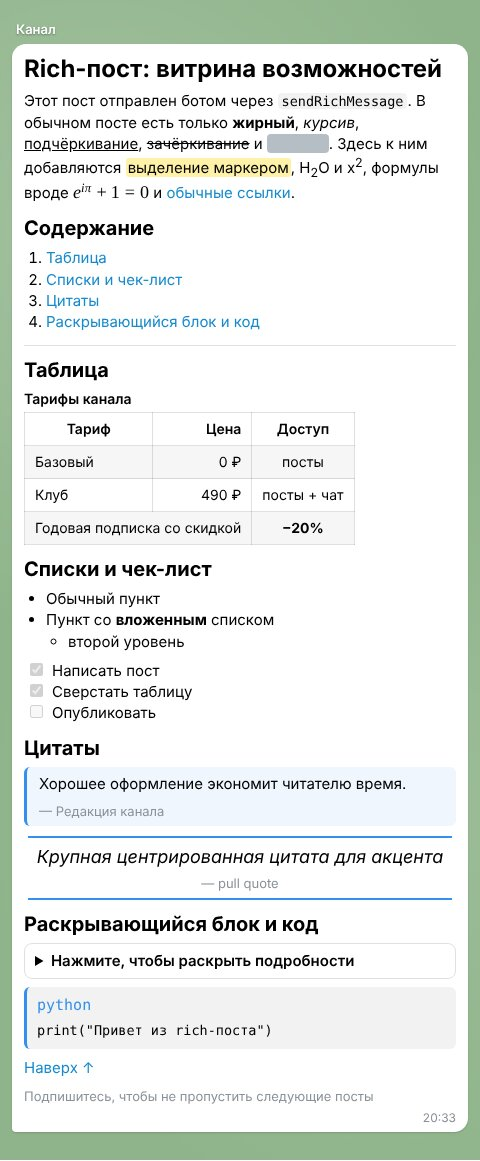
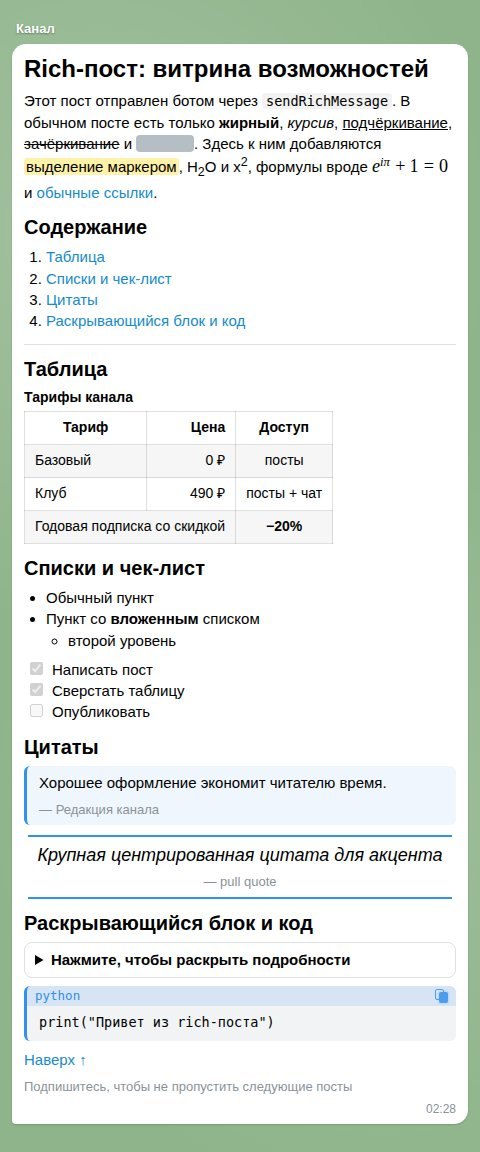
Предпросмотр как в Telegram Desktop: адрес TON, код-блок, GIF из tg://video
Адрес TON, который Telegram сам находит в тексте HTML и Markdown (EQ…/UQ…
из 48 символов), выделен цветом ссылки; в outline он <ton>, так что
test:parity и сверка «Мне в личку» проверяют это правило. Код-блок получил
полосу слева и шапку с языком и значком копирования, без подсветки
синтаксиса (ADR 0022). Вид файла tg:// берётся из записи в media: GIF за
tg://video играет сам по кругу, с меткой «GIF», без кнопок.

Пример post-telegram-check.json повторяет пост сверки; скриншоты берут
файлы upload: из examples/media.

Changed region(s): [[0.0312, 0.3125, 0.9688, 0.9688], [0.0312, 0.0, 0.9375, 0.2812], [0.9062, 0.9375, 0.9375, 0.9688]]

diff --git a/app/static/render.js b/app/static/render.js
@@ -41,7 +41,8 @@
     let node;
     if (!src) {
       node = el('div', { class: 'tg-media-ph' }, el('span', { class: 'tg-media-kind', text: kindLabel(kind) }), el('small', { text: label || 'нет файла' }));
-    } else if (kind === 'photo') {
+    } else if (kind === 'photo' || (kind === 'animation' && /\.gif(?:[?#]|$)/i.test(src))) {
+      // a GIF plays only in <img>; Telegram shows an animation playing by itself in a loop, without controls
       node = el('img', { src, alt: '', loading: 'lazy' });
     } else if (kind === 'video' || kind === 'animation') {
       node = el('video', { src, controls: kind === 'video', autoplay: kind === 'animation', loop: kind === 'animation', playsinline: true });
@@ -52,7 +53,8 @@
     } else {
       node = el('a', { class: 'tg-doc', href: src, target: '_blank', rel: 'noopener' }, el('span', { class: 'tg-doc-ico', text: '📄' }), (() => { const last = src.split('/').pop() || ''; try { return decodeURIComponent(last); } catch (e) { return last; } })());
     }
-    const wrap = el('div', { class: 'tg-media tg-media-' + kind + (spoiler ? ' tg-media-spoiler' : '') }, node);
+    // tg-gif: the «GIF» label over a playing animation (the placeholder names the kind by itself)
+    const wrap = el('div', { class: 'tg-media tg-media-' + kind + (src && kind === 'animation' ? ' tg-gif' : '') + (spoiler ? ' tg-media-spoiler' : '') }, node);
     if (spoiler) wrap.addEventListener('click', () => wrap.classList.remove('tg-media-spoiler'));
     if (extra) wrap.append(extra);
     return wrap;
@@ -128,7 +130,7 @@
     else if (t === 'email_address') frag.append(el('a', { href: 'mailto:' + rt.email_address }, inner()));
     else if (t === 'phone_number') frag.append(el('a', { href: 'tel:' + rt.phone_number }, inner()));
     else if (['mention', 'hashtag', 'cashtag', 'bot_command', 'bank_card_number'].includes(t)) frag.append(el('span', { class: 'tg-link' }, inner()));
-    else if (t === 'ton_address') frag.append(el('span', { class: 'tg-link', title: 'Адрес TON: ' + (rt.address || '') }, inner())); // Bot API 10.4
+    else if (t === 'ton_address') frag.append(tonEl(inner(), rt.address || '')); // Bot API 10.4
     else if (t === 'date_time') frag.append(el('span', { class: 'tg-time', title: formatTime(rt.unix_time, 'wDT') + ' (у читателя: его часовой пояс)' }, rt.text ? inner() : formatTime(rt.unix_time, rt.date_time_format)));
     else if (t === 'custom_emoji') frag.append(el('span', { class: 'tg-emoji', title: 'custom emoji ' + rt.custom_emoji_id }, rt.alternative_text || '⭐'));
     else if (t === 'mathematical_expression') frag.append(math(rt.expression || '', false));
@@ -140,6 +142,9 @@
     else frag.append(unknown('текст: ' + t, rt.text !== undefined ? inner() : JSON.stringify(rt)));
     return frag;
   }
+
+  // a TON address reads as a link; the address itself only in the title
+  const tonEl = (content, address) => el('span', { class: 'tg-link tg-ton', title: 'Адрес TON: ' + address }, content);
 
   function spoilerEl(content) {
     const s = el('span', { class: 'tg-spoiler' }, content);
@@ -172,7 +177,7 @@
     switch (b.type) {
       case 'paragraph': return el('p', {}, rt(b.text));
       case 'heading': return el('h' + Math.min(6, Math.max(1, b.size || 1)), {}, rt(b.text));
-      case 'pre': return el('pre', { 'data-lang': b.language || null }, el('code', {}, rt(b.text)));
+      case 'pre': return codeBox(el('pre', { 'data-lang': b.language || null }, el('code', {}, rt(b.text))), b.language);
       case 'footer': return el('footer', {}, rt(b.text));
       case 'divider': return el('hr');
       case 'mathematical_expression': return math(b.expression || '', true);
@@ -208,6 +213,28 @@
         return el('div', { class: 'tg-unknown tg-unknown-block', title: 'Блок, которого нет в рендере предпросмотра. Telegram его получит.' },
           el('b', { text: 'Блок «' + b.type + '»' }), el('pre', { text: JSON.stringify(b, null, 1) }));
     }
+  }
+
+  // A code block as Telegram Desktop draws it: a header with the language and a copy icon, a bar on the left. CSS
+  // writes the language from data-lang, so the post's text (outline, history, reply dialog) stays only the code.
+  // No syntax highlighting: docs/decisions/0022-code-block-without-highlighting.md
+  function codeBox(pre, lang) {
+    const copy = el('span', { class: 'tg-pre-copy', role: 'button', tabindex: 0, title: 'Копировать', 'aria-label': 'Копировать код' });
+    const head = el('div', { class: 'tg-pre-head', 'data-lang': lang || null }, copy);
+    const copyCode = () => {
+      const done = () => { head.classList.add('tg-copied'); setTimeout(() => head.classList.remove('tg-copied'), 1500); };
+      try { navigator.clipboard.writeText(codeText(pre)).then(done, () => {}); } catch (e) { /* no clipboard here (an MCP host's sandbox) */ }
+    };
+    copy.addEventListener('click', copyCode);
+    copy.addEventListener('keydown', (ev) => { if (ev.key === 'Enter' || ev.key === ' ') { ev.preventDefault(); copyCode(); } });
+    return el('div', { class: 'tg-pre' }, head, pre);
+  }
+
+  // the code as the reader copies it: from blocks its line breaks are <br>
+  function codeText(node) {
+    let s = '';
+    node.childNodes.forEach((c) => { s += c.nodeType === 3 ? c.nodeValue : c.nodeName === 'BR' ? '\n' : codeText(c); });
+    return s;
   }
 
   function expandable(content, cite) {
@@ -374,11 +401,16 @@
     });
   }
 
+  // what kind the file is, its entry in media says, not the link: the docs give only tg://photo, video, audio and
+  // document, so a GIF (InputMediaAnimation) comes as tg://video and a voice note (InputMediaVoiceNote) as tg://audio
+  const MEDIA_KINDS = new Set(['photo', 'video', 'animation', 'audio', 'document', 'voice_note']);
   function mediaFromSrc(src, ctx) {
     const m = /^tg:\/\/(photo|video|audio|document|animation|voice(?:_note)?)\?id=([\w\-.]+)/.exec(src || '');
     if (!m) return null;
     const item = (ctx.mediaList || []).find((x) => x && x.id === m[2]);
-    return { kind: m[1] === 'voice' ? 'voice_note' : m[1], media: item ? item.media : null, id: m[2] };
+    const media = item ? item.media : null;
+    const type = media && typeof media === 'object' ? media.type : null;
+    return { kind: MEDIA_KINDS.has(type) ? type : m[1] === 'voice' ? 'voice_note' : m[1], media, id: m[2] };
   }
 
   function transformHtml(root, ctx) {
@@ -449,6 +481,9 @@
         const lang = node.querySelector('code[class*="language-"]');
         const m = lang && /language-([\w+#-]+)/.exec(lang.className);
         if (m) node.dataset.lang = m[1];
+        const parent = node.parentNode, next = node.nextSibling;
+        parent.insertBefore(codeBox(node, m && m[1]), next); // codeBox takes the <pre> out to put it under its header
+        return;
       } else if (tag.startsWith('tg-')) {
         rep = unknown('тег <' + tag + '>', kids());
       }
@@ -510,12 +545,34 @@
     return n > 0 && n <= 0x10ffff && !(n >= 0xd800 && n <= 0xdfff) ? String.fromCodePoint(n) : m[0];
   }
 
+  // A TON address Telegram finds in HTML and Markdown text by itself, unless skip_entity_detection is on
+  // (tests/telegram_parse/captured.json: html-detected-card-ton): EQ…/UQ… of 48 characters, as TON_FOUND in
+  // js/html-export.js. A card number with spaces it does not find, and the preview finds no card numbers at all.
+  // Not inside code, links, formulas and other elements that already are something else.
+  const TON = /(?<![\w-])[EU]Q[\w-]{46}(?![\w-])/g;
+  const NO_DETECTION = 'a, code, pre, .tg-link, .tg-math, .tg-math-block, .tg-time, .tg-emoji, .tg-btn, .tg-media, .tg-unknown-block';
+  function findTon(root) {
+    /** @type {Text[]} */
+    const texts = [];
+    const walker = document.createTreeWalker(root, NodeFilter.SHOW_TEXT);
+    for (let n = walker.nextNode(); n; n = walker.nextNode()) if (!n.parentElement?.closest(NO_DETECTION)) texts.push(/** @type {Text} */ (n));
+    texts.forEach((n) => {
+      const s = n.data;
+      /** @type {(string | Node)[]} */
+      const parts = [];
+      let at = 0;
+      for (const m of s.matchAll(TON)) { parts.push(s.slice(at, m.index), tonEl(m[0], m[0])); at = (m.index || 0) + m[0].length; }
+      if (at) n.replaceWith(...[...parts, s.slice(at)].filter((p) => p !== ''));
+    });
+  }
+
   function renderHtml(src, ctx) {
     // <template> content is inert: no scripts run and no images load until sanitized nodes are attached
     const tpl = document.createElement('template');
     tpl.innerHTML = '<div>' + src + '</div>';
     const root = /** @type {HTMLElement} */ (tpl.content.firstChild);
     transformHtml(root, ctx);
+    if (ctx.detect) findTon(root);
     const frag = document.createDocumentFragment();
     while (root.firstChild) frag.append(root.firstChild);
     return frag;
@@ -720,7 +777,7 @@
   function render(post, opts) {
     opts = opts || {};
     const rm = (post && post.rich_message) || {};
-    const ctx = { mediaBase: opts.mediaBase || '', mediaList: rm.media || [] };
+    const ctx = { mediaBase: opts.mediaBase || '', mediaList: rm.media || [], detect: !rm.skip_entity_detection };
     const body = el('div', { class: 'tg-body', dir: rm.is_rtl ? 'rtl' : null });
     try {
       if (rm.blocks) body.append(renderBlocks(rm.blocks, ctx));
@@ -766,6 +823,7 @@
       else if (c.contains('tg-pullquote')) tag = 'pullquote';
       else if (c.contains('tg-time')) tag = 'time';
       else if (c.contains('tg-ref')) tag = 'ref';
+      else if (c.contains('tg-ton')) tag = 'ton'; // a ton_address, or an address Telegram finds in the text
       else if (c.contains('tg-anchor')) { out.push('<anchor>'); return; }
       else if (n.tagName === 'A') {
         const href = n.getAttribute('href') || '';

diff --git a/app/static/tg.css b/app/static/tg.css
@@ -2,7 +2,7 @@
 .tg-preview {
   --tg-bg: #8fb48b; --tg-bubble: #ffffff; --tg-text: #000000; --tg-muted: #8a9299; --tg-link: #168acd;
   --tg-accent: #3390ec; --tg-quote-bg: rgba(51,144,236,.08); --tg-code-bg: rgba(0,0,0,.05); --tg-border: rgba(0,0,0,.12);
-  --tg-pre-bg: #f1f3f5;
+  --tg-pre-bg: #f1f3f5; --tg-pre-head: rgba(51,144,236,.14); --tg-pre-accent: #3390ec;
   --tg-stripe: rgba(0,0,0,.035); --tg-btn-bg: rgba(0,0,0,.18); --tg-btn-text: #fff; --tg-spoiler: #b6bec5;
   --tg-mark: #fff2a8;
   background: radial-gradient(circle at 20% 20%, rgba(255,255,255,.18), transparent 40%),
@@ -14,7 +14,7 @@
 .tg-preview.tg-dark {
   --tg-bg: #0e1621; --tg-bubble: #182533; --tg-text: #f5f5f5; --tg-muted: #6d7f8f; --tg-link: #6ab3f3;
   --tg-accent: #6ab3f3; --tg-quote-bg: rgba(106,179,243,.1); --tg-code-bg: rgba(255,255,255,.07); --tg-border: rgba(255,255,255,.14);
-  --tg-pre-bg: #222f3e;
+  --tg-pre-bg: #06090d; --tg-pre-head: #2c445b; --tg-pre-accent: #5382a9;
   --tg-stripe: rgba(255,255,255,.04); --tg-btn-bg: rgba(255,255,255,.1); --tg-spoiler: #4a5866; --tg-mark: #6b5d1c;
 }
 .tg-msg { max-width: 460px; margin: 0 auto; }
@@ -29,10 +29,22 @@
 .tg-body a, .tg-link { color: var(--tg-link); text-decoration: none; cursor: pointer; }
 .tg-body a:hover { text-decoration: underline; }
 .tg-body code { background: var(--tg-code-bg); border-radius: 4px; padding: 0 4px; font: 13.5px/1.4 ui-monospace, SFMono-Regular, Menlo, Consolas, monospace; }
-/* a code block in Telegram: opaque grey, no bar, the language in a quiet label */
 .tg-body pre { background: var(--tg-pre-bg); border-radius: 8px; padding: 8px 12px; overflow-x: auto; margin: 0 0 8px; position: relative; }
-.tg-body pre[data-lang]::before { content: attr(data-lang); display: block; font-size: 12px; font-weight: 500; color: var(--tg-muted); margin-bottom: 4px; }
 .tg-body pre code { background: none; padding: 0; white-space: pre; }
+/* a code block as Telegram Desktop draws it (colours measured on its night theme, #172): a bar on the left, a header
+   with the language (data-lang, so it is not part of the post's text) and a copy icon; no syntax highlighting (ADR 0022) */
+.tg-pre { margin: 0 0 8px; border-left: 3px solid var(--tg-pre-accent); border-radius: 6px; overflow: hidden; background: var(--tg-pre-bg); }
+.tg-body .tg-pre > pre { margin: 0; padding: 6px 12px 8px; border-radius: 0; background: none; }
+.tg-pre-head { display: flex; align-items: center; gap: 8px; min-height: 20px; padding: 0 8px; background: var(--tg-pre-head); color: var(--tg-pre-accent); font: 500 12.5px/20px ui-monospace, SFMono-Regular, Menlo, Consolas, monospace; }
+.tg-pre-head[data-lang]::before { content: attr(data-lang); overflow: hidden; text-overflow: ellipsis; white-space: nowrap; }
+.tg-pre-head.tg-copied::after { content: "скопировано"; order: 1; margin-left: auto; font-family: inherit; }
+.tg-pre-copy { position: relative; order: 2; margin-left: auto; flex: none; width: 13px; height: 14px; cursor: pointer; opacity: .85; }
+.tg-copied .tg-pre-copy { margin-left: 0; }
+.tg-pre-copy:hover, .tg-pre-copy:focus-visible { opacity: 1; outline: none; }
+/* two sheets: the back one outlined, the front one filled */
+.tg-pre-copy::before, .tg-pre-copy::after { content: ""; position: absolute; box-sizing: border-box; width: 9px; height: 11px; border-radius: 2px; }
+.tg-pre-copy::before { left: 0; top: 0; border: 1.5px solid currentColor; }
+.tg-pre-copy::after { right: 0; bottom: 0; background: currentColor; box-shadow: 0 0 0 1.5px var(--tg-pre-head); }
 .tg-body mark { background: var(--tg-mark); color: inherit; border-radius: 3px; padding: 0 2px; }
 .tg-body hr { border: 0; border-top: 1px solid var(--tg-border); margin: 12px 0; }
 .tg-body footer { color: var(--tg-muted); font-size: 13px; margin: 8px 0 4px; }
@@ -79,6 +91,9 @@
 .tg-media img, .tg-media video { display: block; width: 100%; max-height: 520px; object-fit: cover; background: var(--tg-code-bg); }
 .tg-media audio { width: 100%; }
 .tg-media-spoiler img, .tg-media-spoiler video { filter: blur(22px) brightness(.8); cursor: pointer; }
+/* an animation plays by itself in a loop, without controls, under a «GIF» label as in Telegram */
+.tg-gif::before { content: "GIF"; position: absolute; left: 8px; top: 8px; z-index: 1; padding: 0 8px; border-radius: 10px; background: rgba(0,0,0,.45); color: #fff; font-size: 13px; line-height: 20px; pointer-events: none; }
+.tg-media-spoiler.tg-gif::before { display: none; }
 .tg-media-ph { display: flex; flex-direction: column; align-items: center; justify-content: center; gap: 2px; min-height: 110px; background: var(--tg-code-bg); color: var(--tg-muted); border: 1px dashed var(--tg-border); border-radius: 8px; padding: 8px; text-align: center; }
 .tg-media-kind { font-weight: 600; }
 .tg-media-ph small { font-size: 11px; word-break: break-all; }

diff --git a/app/static/js/html-export.js b/app/static/js/html-export.js
@@ -99,8 +99,6 @@ const SPECIAL_HREF = [[/^#/, 'ссылку на якорь или сноску']
 // block → [tag, tg:// link]: the spec gives the tag (InputRichBlockAnimation «<video>», VoiceNote «<audio>»), the docs
 // only tg://photo, video, document and audio links; what kind the file is, its entry in media says
 const MEDIA_TAGS = { photo: ['img', 'photo'], video: ['video', 'video'], animation: ['video', 'video'], audio: ['audio', 'audio'], voice_note: ['audio', 'audio'], document: ['tg-document', 'document'] };
-// the preview names the kind of a tg:// file by its link, so it draws such an animation as a video
-const LINKED_AS = { animation: 'video', voice_note: 'audio' };
 const DEFAULT_ALIGN = { th: 'center', td: 'left' }; // Telegram's own, as tests/telegram_parse/captured.json shows
 const isObj = (v) => !!v && typeof v === 'object' && !Array.isArray(v);
 // a type is looked up only among the table's own keys: «constructor» or «__proto__» are not types
@@ -129,7 +127,8 @@ export function blocksToHtml(blocks, opts = {}) {
   const warnings = [...tight.squeezed];
   if (tight.html) {
     const theirs = lookOf({ blocks });
-    const mine = lookOf({ html: tight.html, media: tight.media });
+    // with detection off the preview, like Telegram, finds no TON address in the HTML text
+    const mine = lookOf({ html: tight.html, media: tight.media, ...(opts.skipEntities ? { skip_entity_detection: true } : {}) });
     if (mine !== theirs) return { ok: false, problems: ['В предпросмотре HTML выглядит иначе, чем визуальный пост'], diff: firstDifference(theirs, mine) };
   }
   const out = opts.layout === false ? tight : write(blocks, opts, true);
@@ -139,22 +138,10 @@ export function blocksToHtml(blocks, opts = {}) {
 /** The post as the preview reads it (RichRender.outline): structure and text, not the values of attributes (links,
  * rowspan, map points, tg-time, emoji ids), which tests/html_export.mjs checks by themselves. In code a line break
  * is a line break: from blocks the preview draws it as <br>, from HTML source as the text's own newline, which the
- * outline turns into a space. An animation and a voice note are compared as the video and audio their links say. */
+ * outline turns into a space. The kind of a tg:// file the preview takes from its entry in media, as Telegram does. */
 export function lookOf(richMessage) {
-  const rm = richMessage.blocks ? { ...richMessage, blocks: linkedKinds(richMessage.blocks) } : richMessage;
-  return RichRender.outline({ rich_message: rm })
+  return RichRender.outline({ rich_message: richMessage })
     .replace(/<pre[^>]*>.*?<\/pre>/gs, (p) => p.replace(/<br>/g, ' ').replace(/ +/g, ' ').replace(/(<pre[^>]*>) | (<\/pre>)/g, '$1$2'));
-}
-
-/** The blocks with an animation as a video and a voice note as an audio, as the preview draws their tg:// links:
- * the kind of the file is checked by the entry in media, not by the outline. */
-function linkedKinds(v) {
-  if (Array.isArray(v)) return v.map(linkedKinds);
-  if (!isObj(v)) return v;
-  const out = Object.fromEntries(Object.entries(v).map(([k, x]) => [k, linkedKinds(x)]));
-  const as = own(LINKED_AS, v.type);
-  if (as && v[v.type] !== undefined) { out.type = as; out[as] = out[v.type]; delete out[v.type]; }
-  return out;
 }
 
 function firstDifference(a, b) {

diff --git a/docs/decisions/0022-code-block-without-highlighting.md b/docs/decisions/0022-code-block-without-highlighting.md
@@ -1,0 +1,18 @@
+# 0022. Код-блок в предпросмотре без подсветки синтаксиса; вид файла `tg://` по записи в `media`
+
+2026-11-16, issue #172: предпросмотр сверен с Telegram Desktop в тёмной теме.
+
+**Решение.** Код-блок нарисован как в Telegram Desktop: полоса слева, шапка с языком и значком копирования. Значок копирует код. Подсветки синтаксиса нет, код одного цвета. Шапка есть у каждого блока, язык в ней только тогда, когда он указан. Язык пишет CSS из `data-lang`, поэтому в текст поста он не попадает: outline, история правок и диалог ответа видят только код.
+
+**Почему без подсветки.** Взвесили разбор из уже вендоренного набора Lezer ([0017](0017-codemirror-vendored-modules.md)), он не требует новой зависимости.
+
+- Языки. В наборе есть грамматики JavaScript и TypeScript, JSON, CSS, HTML и Markdown. Python из самого issue в нём нет, как и почти всех языков, которые подсвечивает Telegram. Каждая новая грамматика (`@lezer/python` и другие) — новая рантайм-зависимость.
+- Вес. `render.js` весит 51 КБ (17 КБ gzip). Подсветка одного JavaScript требует `@lezer/common`, `lr`, `highlight` и `javascript`: 77 КБ gzip, в 4,5 раза больше всего предпросмотра. С CSS, HTML, JSON и Markdown выходит около 115 КБ gzip.
+- Где грузится. `render.js` — классический скрипт, его загружают редактор, страница `/render` и MCP-приложение (`app/mcp_tools/preview_app.py`). В MCP-приложении всё встроено в один HTML, а сети нет. Модули Lezer с импортами туда без сборщика не встроить ([0001](0001-no-bundler.md)), поэтому в чате Claude подсветки не было бы, и предпросмотр различался бы от места к месту. В редакторе и на `/render` модули пришлось бы грузить через `import()` из каталога с хешем. Путь к нему знает только `codemirror.js`, а он тянет весь набор (около 380 КБ gzip). Отдельный вход для подсветки — это правка `scripts/vendor_codemirror.mjs`.
+- Сходство. Цвета клиента пришлось бы подбирать под каждую тему руками. Проверить их можно только глазами: `npm run test:parity` сравнивает структуру и текст, а не цвет.
+
+Итог: подсветка вышла бы частичной (без языка из issue), тяжёлой и разной в разных местах. Без неё предпросмотр показывает то же устройство блока, что клиент, а цвета кода автор видит в Telegram после «Мне в личку».
+
+**Вид файла `tg://`.** В HTML и Markdown документированы только ссылки `tg://photo`, `video`, `audio` и `document`. Поэтому GIF (`InputMediaAnimation`) приходит как `tg://video`, а голосовое (`InputMediaVoiceNote`) как `tg://audio`. Telegram рисует файл по его записи в `media`: GIF играет сам по кругу, с меткой «GIF» и без кнопок. Предпросмотр теперь тоже берёт вид файла из записи, а по ссылке только тогда, когда записи нет. Файл `.gif` рисуется в `<img>` (в `<video>` GIF не играет), анимация MP4 — в `<video muted loop autoplay playsinline>` без `controls`. Это заменяет фразу из [0018](0018-html-export-on-request.md) «предпросмотр определяет вид такого файла по ссылке»: «В HTML» больше не выдаёт анимацию за видео при сверке.
+
+**Отказались.** От подсветки разбором Lezer, причины выше. От своего токенизатора на регулярных выражениях (ключевые слова, строки, комментарии): на каждый язык нужны свои правила, и он ошибался бы там, где Telegram прав. От Prism, highlight.js и подобных библиотек: это новая рантайм-зависимость, а её без обсуждения не добавляют (`AGENTS.md`).

diff --git a/tests/AGENTS.md b/tests/AGENTS.md
@@ -6,7 +6,7 @@
 - Найденный баг — сначала падающий тест (`test_regressions.py`), потом исправление.
 - `render_unit.mjs`: враждебные примеры для санитайзера, запуск `npm run test:render`, студия не нужна.
 - `codemirror_vendor.mjs` (`npm run test:codemirror`): вендоренный CodeMirror грузится в Node, bare-импорты запрещены. `completion_unit.mjs` (`npm run test:completion`): подсказки вкладок исходника через настоящий `CompletionContext` на спецификации из `GET /api/spec` (её выдаёт Python студии: `PYTHON=…`, `.venv` или `python3`).
-- `preview_shots.mjs`: каждый пример из `examples/` в светлой и тёмной теме, проверка вёрстки (нет ошибок, у блоков есть размер, ничего не вылезает из пузыря) и скриншоты в `test-results/preview/` (в CI это артефакт). Пиксели не сравниваются: шрифты на разных машинах разные. Новый блок в спецификации: добавь пример в `examples/`, и он попадёт сюда сам.
+- `preview_shots.mjs`: каждый пример из `examples/` в светлой и тёмной теме, проверка вёрстки (нет ошибок, у блоков есть размер, ничего не вылезает из пузыря) и скриншоты в `test-results/preview/` (в CI это артефакт). Пиксели не сравниваются: шрифты на разных машинах разные. Новый блок в спецификации: добавь пример в `examples/`, и он попадёт сюда сам. Пример — HTML, JSON со списком блоков или JSON с `rich_message` целиком (с `media`); файлы `upload:<имя>` берутся из `examples/media/`.
 - `e2e_ui.mjs`: проверки в браузере, запуск `make e2e-local` (свой стенд: подставной Telegram и студия с пустым DATA_DIR на свободных портах). `e2e/harness.mjs` не начинает, если студия по `BASE` ходит не в подставной Telegram: рабочая студия на 7424 опубликовала бы проверки в канал. Каждая проверка — отдельный файл `e2e/NN-имя.mjs` (`export default async function (ctx)`, помощники в `e2e/harness.mjs`). Файлы идут по порядку имён на одной странице. Новая проверка — новый файл со следующим номером, общие файлы не трогаются. Общая страница работает с «Простым редактором» во вкладках исходника (`page.fill` пишет в textarea); CodeMirror проверяется на своей странице в `e2e/43-code-editor.mjs`. Одна проверка: `make e2e-local ONLY=poll`. Ждите событие, а не фиксированную паузу: `waitForFunction` для страницы, `until(() => …)` из `e2e/harness.mjs` для лога mock и API (сравнивайте с числом вызовов до действия: лог хранит всю сессию). Проверка, что ждёт события: `E2E_SLOW=500 make e2e-local ONLY=<проверка>` задерживает каждый запрос страницы, проверка с паузой на этом падает.
 - `test_spec_coverage.py`: подписи, предпросмотр и таблица «В HTML» покрывают все блоки и inline-типы из `app/bundled/api.json`; сообщение об ошибке перечисляет, что добавить.
 - `html_export.mjs` (`npm run test:export`): «В HTML» на блоках, которые настоящий Telegram сделал из каждого примера `telegram_parse/captured.json` (в отправляемые их переводит `spec/convert.py`, поэтому нужен Python студии: `.venv`, `PYTHON=…` или `python3` с `requirements.txt`), на посте со всеми типами спецификации и на отказах. Новый тип в спецификации: добавь его в пост `every` в этом файле.

diff --git a/docs/decisions/0018-html-export-on-request.md b/docs/decisions/0018-html-export-on-request.md
@@ -2,6 +2,8 @@
 
 2026-11-15, задача #94, после разбора форка xarleyn/Rich-Studio.
 
+Частично заменено: [0022](0022-code-block-without-highlighting.md). Вид файла `tg://` предпросмотр берёт из записи в `media`, поэтому для сверки анимация больше не считается видео, а голосовое аудио.
+
 **Решение.** В визуальном режиме есть кнопка «В HTML». Она переводит блоки в rich HTML Telegram и кладёт результат во вкладку HTML. Если там уже есть свой текст, сначала спрашивает в диалоге студии. Остальные вкладки сами не меняются: у каждого режима свой текст, как и раньше. Обратное направление уже есть: «В визуальный» после «Мне в личку» берёт блоки, которые сделал из поста Telegram.
 
 Что во что переводится, записано руками в `app/static/js/html-export.js`, как отрисовка в `render.js`, по разделу [Rich HTML style](https://core.telegram.org/bots/api#rich-html-style). Таблица — это `BLOCK_FIELDS` и `INLINE_FIELDS`: тип и поля, которые он переносит. Каких типов спецификации в ней нет, перечисляет `spec/coverage.py`, так же как пробелы подписей и предпросмотра. Их видно в окне спецификации, а `tests/test_spec_coverage.py` с ними красный. Новое поле у типа, который в таблице уже есть, учёт не ловит. Потери и тогда нет: кнопка откажет с перечнем при первом посте с этим полем, но узнают о нём от человека, а не из теста.

diff --git a/docs/decisions/README.md b/docs/decisions/README.md
@@ -29,3 +29,4 @@
 | [0019](0019-unrecorded-send.md) | Пост ушёл, а запись не удалась: 502 «не публикуйте повторно» с `message_id`, дозапись из памяти, шаги после записи — предупреждения |
 | [0020](0020-dependabot-self-contained-prs.md) | Dependabot только для PR, готовых как пришли: npm-инструменты, digest образа, `deploy/`, actions; Python-пакеты и CodeMirror обновляются намеренно |
 | [0021](0021-ephemeral-callback-reply.md) | Rich-ответ на callback-кнопку: поле `reply` с параметрами `sendRichMessage`, ответ до `answerCallbackQuery`, окно 15 секунд от получения, без повторов |
+| [0022](0022-code-block-without-highlighting.md) | Код-блок в предпросмотре как в Telegram Desktop, но без подсветки синтаксиса; вид файла `tg://` по записи в `media` |
